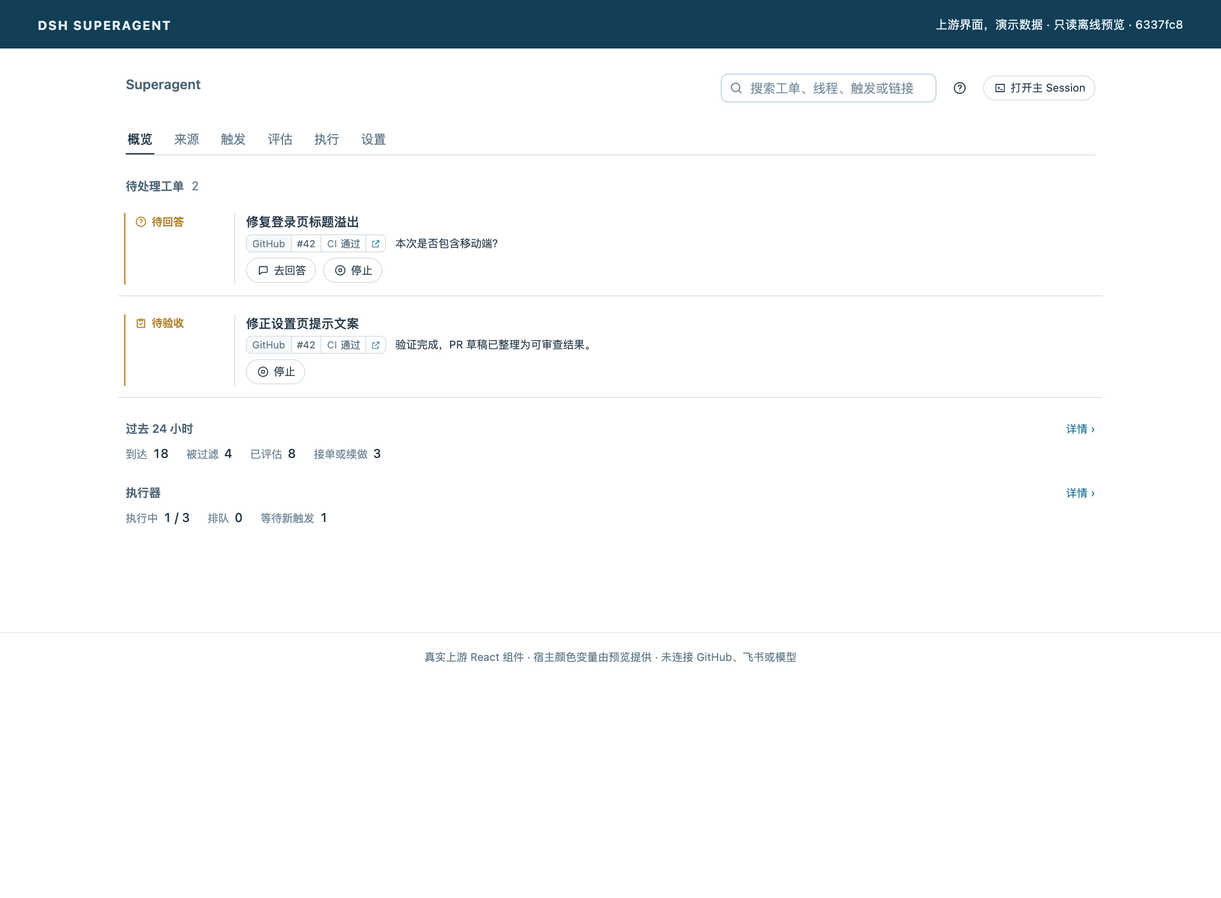
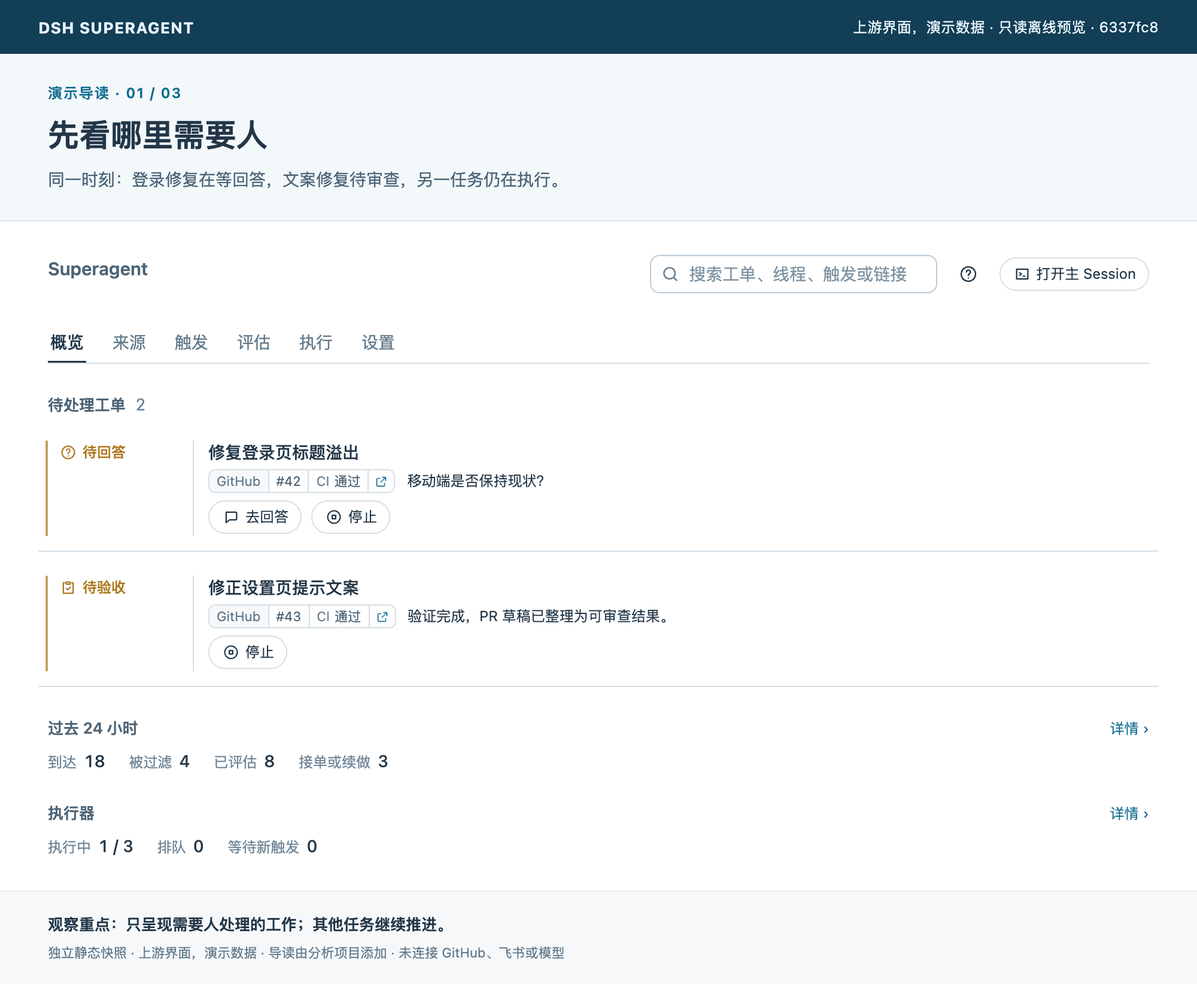
docs: show continuous task demos and horizontal architecture

diff --git a/tools/preview/data.ts b/tools/preview/data.ts
@@ -1,22 +1,26 @@
 // Synthetic examples shaped after the pinned upstream management API and panel fixtures.
 const at = '2026-10-31T12:00:00Z';
-const version = '6337fc823ce20251c';
+const version = 'demo-policy-v1';
+const questionAt = '2026-10-31T12:12:00Z';
+const followupAt = '2026-10-31T12:18:00Z';
+const request = '@dsh-demo-agent 请按现有桌面布局修复登录页标题溢出，不修改认证逻辑。';
+const answer = '移动端保持不变，请按原范围完成桌面端验证。';
 const actor = { source: 'github', id: 'demo-maintainer', name: { zh: '示例维护者', en: 'Demo maintainer' } };
 const link = 'https://example.test/github/issues/42';
 const thread = { key: 'github:42', source: 'github', title: '#42 登录页标题溢出', stage: 'subscribed', createdAt: at, lastAt: at,
-  subscriptions: 1, tickets: [{ id: 'demo-1', title: '修复登录页标题溢出', state: 'open' }], pending: 0, url: link,
+  latest: { actor, preview: request }, subscriptions: 1, tickets: [{ id: 'demo-1', title: '修复登录页标题溢出', state: 'open' }], pending: 0, url: link,
   facts: { number: { value: '#42' }, ci: { label: { zh: 'CI', en: 'CI' }, value: '通过' } } };
 const base = { id: 'demo-1', title: '修复登录页标题溢出', state: 'open', actions: { retry: false, stop: true },
-  stage: 'person', action: 'answer', strength: 'explicit', assignments: 1, inputs: 2, undelivered: 0,
-  sessionId: 'worker-demo-1', directory: '/srv/superagent/work/fix-login-title', summary: '桌面端修复已验证，等待确认移动端范围。',
-  attention: { id: 'attention-demo', question: '本次是否包含移动端？桌面端修复已完成，移动端需要单独确认范围。' },
-  note: { text: '本次是否包含移动端？', error: false }, reply: { url: link, label: { zh: 'GitHub', en: 'GitHub' } },
-  createdAt: at, updatedAt: at, threads: [thread] };
+  stage: 'person', action: 'answer', strength: 'explicit', assignments: 1, inputs: 1, undelivered: 0,
+  sessionId: 'worker-demo-1', directory: '/srv/superagent/work/fix-login-title', summary: '桌面端修复已完成，确认移动端是否保持现状后继续验证。',
+  attention: { id: 'attention-demo', question: '移动端是否保持现状？当前授权仅覆盖桌面端，本轮不会自行扩大修改范围。' },
+  note: { text: '移动端是否保持现状？', error: false }, reply: { url: link, label: { zh: 'GitHub', en: 'GitHub' } },
+  createdAt: at, updatedAt: questionAt, threads: [thread] };
 const review = { ...base, id: 'demo-2', title: '修正设置页提示文案', action: 'review', attention: undefined,
   note: { text: '验证完成，PR 草稿已整理为可审查结果。', error: false }, sessionId: 'worker-demo-2',
-  summary: '改动与测试结果已提交，等待人工审查。' };
+  summary: '改动与测试结果已提交，等待人工审查。', threads: [{ ...thread, key: 'github:43', title: '#43 修正设置页提示文案', url: 'https://example.test/github/issues/43', latest: { actor, preview: '请修正设置页提示文案，保持原意。' }, facts: { number: { value: '#43' }, ci: thread.facts.ci }, tickets: [{ id: 'demo-2', title: '修正设置页提示文案', state: 'open' }] }], reply: undefined, directory: '/srv/superagent/work/fix-settings-copy' };
 const working = { ...base, id: 'demo-3', title: '跟进 PR 的审查反馈', stage: 'working', action: undefined,
-  attention: undefined, note: undefined, sessionId: 'worker-demo-3' };
+  attention: undefined, note: undefined, sessionId: 'worker-demo-3', reply: undefined, directory: '/srv/superagent/work/review-feedback', threads: [{ ...thread, key: 'github:44', title: 'PR #44 跟进审查反馈', url: 'https://example.test/github/pull/44', latest: { actor, preview: '请按审查意见补齐验证。' }, facts: { number: { value: '#44' }, ci: thread.facts.ci }, tickets: [{ id: 'demo-3', title: '跟进 PR 的审查反馈', state: 'open' }] }] };
 const source = { id: 'github', kind: 'github', title: { zh: 'GitHub', en: 'GitHub' }, installed: true,
   description: { zh: '接收示例仓库中的请求与后续讨论', en: 'Demo repository events' }, labels: {}, revision: 1, restarts: [],
   value: { enabled: true, config: { repository: 'example/demo', cli: 'gh-agent', observeComments: true, observeIssues: true } },
@@ -39,7 +43,7 @@ export const responses: Record<string, unknown> = {
   state: { setup: { machine: { stateDir: '/srv/superagent', promptMaxChars: 100000, admissionContextMaxPages: 10,
       admissionContextTimeoutMs: 15000 }, problem: null, feishuProblem: null, accounts: { repository: 'example/demo', agent: 'dsh-demo-agent' } },
     load: { running: 1, queued: 0, maxWorkers: 3 }, masterId: 'demo-master', paused: false, health: {} },
-  overview: { problems: [], person: [base, review], executor: { running: 1, queued: 0, maxWorkers: 3, idle: 1 },
+  overview: { problems: [], person: [base, review], executor: { running: 1, queued: 0, maxWorkers: 3, idle: 0 },
     flow: { received: 18, filtered: 4, triggers: 14, judged: 8, accepted: 3, evaluating: 0, dropped: 0 }, policyVersion: version },
   settings: { policyVersion: version, blocks: { policy: { revision: 1, value: policy }, eval: { revision: 1, value: { mode: 'observe',
       timeoutSeconds: 120, model: null } }, executor: { revision: 1, value: executor } }, sources: [source],
@@ -48,16 +52,16 @@ export const responses: Record<string, unknown> = {
       { key: 'DSH_SUPERAGENT_NAME', description: { zh: '工单短名', en: 'Ticket short name' } }] }] } },
   'tickets/demo-1': { ...base, paused: false, threads: [thread],
     decision: { id: 'decision-demo', kind: 'accept', outcome: 'accept', reason: [{ code: 'explicitRouted' }], at,
-      strength: 'explicit', triggerIds: ['trigger-demo'], thread: 'github:42', rules: [], preview: '@agent 请修复标题溢出' },
+      strength: 'explicit', triggerIds: ['trigger-demo'], thread: 'github:42', rules: [], preview: request },
     mandate: { strength: 'explicit', policyVersion: version, basis: { via: 'addressed', sender: actor.id, addressed: 'mention' },
       actor, scope: '按现有桌面布局修复登录页标题溢出，不修改认证逻辑。' },
     basis: { facts: [{ name: 'sender', value: actor.id }, { name: 'addressed', value: 'mention' }], legacy: false },
     environment: [{ key: 'DSH_SUPERAGENT_DIR', value: base.directory, description: { zh: '执行目录', en: 'Directory' }, owner: 'executor' }],
     channels: [{ source: 'github', url: link, label: { zh: 'GitHub #42', en: 'GitHub #42' } }],
-    assignments: [{ id: 'assignment-demo', state: 'running', createdAt: at, startedAt: at,
-      report: { state: 'progress', summary: '演示：桌面端修复与测试已完成，等待范围确认。', at } }],
+    assignments: [{ id: 'assignment-demo', state: 'running', createdAt: at, startedAt: at, ref: base.sessionId, turnEndedAt: questionAt,
+      report: { state: 'waiting', summary: '演示：等待确认移动端保持现状。', at: questionAt } }],
     inputs: [{ id: 'input-demo', kind: 'trigger', triggerId: 'trigger-demo', at, delivered: true,
-      trigger: { id: 'trigger-demo', actor, human: true, preview: '@agent 请修复标题溢出', thread: 'github:42' } }] },
+      trigger: { id: 'trigger-demo', actor, human: true, preview: request, thread: 'github:42' } }] },
   tickets: { items: [base, review, working], total: 3, next_offset: null },
   sources: [{ id: 'github', title: source.title, installed: true, enabled: true, state: 'ready', health: [{ name: 'github', state: 'ready',
     detail: '' }], stats: { received: 18, filtered: 4, lastAt: at }, filtered: [], dropped: [] }],
@@ -65,3 +69,24 @@ export const responses: Record<string, unknown> = {
   threads: { items: [thread], total: 1, next_offset: null }, decisions: { items: [], total: 0, next_offset: null },
   search: { tickets: [], threads: [], items: [] },
 };
+
+// Independent static snapshots: selecting a view never runs an Agent or mutates a ticket.
+export function responsesFor(view: string): Record<string, any> {
+  if (view !== 'followup') return responses;
+  const before = responses['tickets/demo-1'] as any;
+  const continuedThread = { ...thread, lastAt: followupAt, latest: { actor, preview: answer } };
+  const continued = { ...before, stage: 'working', action: undefined, attention: undefined, note: undefined,
+    inputs: [
+      { id: 'input-followup', kind: 'trigger', triggerId: 'trigger-followup', at: followupAt, delivered: true,
+        trigger: { id: 'trigger-followup', actor, human: true, preview: answer, thread: thread.key } },
+      ...before.inputs,
+    ], updatedAt: followupAt, summary: '演示：收到回答，在原范围内继续桌面端验证。', threads: [continuedThread],
+    assignments: before.assignments.map(item => ({ ...item, turnEndedAt: undefined,
+      report: { state: 'progress', summary: '演示：原会话继续验证桌面端修复。', at: followupAt } })),
+  };
+  return { ...responses, 'tickets/demo-1': continued,
+    overview: { ...(responses.overview as any), person: [review], executor: { running: 2, queued: 0, maxWorkers: 3, idle: 0 } },
+    state: { ...(responses.state as any), load: { running: 2, queued: 0, maxWorkers: 3 } },
+    tickets: { items: [{ ...continued, inputs: continued.inputs.length, assignments: continued.assignments.length }, review, working], total: 3, next_offset: null },
+    threads: { items: [continuedThread], total: 1, next_offset: null } };
+}

diff --git a/tools/preview/entry.tsx b/tools/preview/entry.tsx
@@ -2,10 +2,22 @@ import React from 'react';
 import { createRoot } from 'react-dom/client';
 import { App } from '@upstream/client/app.tsx';
 import { zh } from '@upstream/client/locales.ts';
-import { responses } from './data';
+import { responsesFor } from './data';
 const views = { overview: { page: 'overview' }, ticket: { page: 'execution', id: 'demo-1' },
+  followup: { page: 'execution', id: 'demo-1' },
   policy: { page: 'settings', query: { group: 'eval' } }, execution: { page: 'settings', query: { group: 'execution' } } };
 const view = new URLSearchParams(location.search).get('view') || 'overview';
+const responses = responsesFor(view);
+const scenes = {
+  overview: ['01 / 03', '先看哪里需要人', '同一时刻：登录修复在等回答，文案修复待审查，另一任务仍在执行。', '观察重点：只呈现需要人处理的工作；其他任务继续推进。'],
+  ticket: ['02 / 03', '看清授权，再回答问题', 'Issue #42 → Ticket demo-1 · worker-demo-1 · 当前只授权修复桌面端。', '观察重点：问题与授权范围同时可见；在原 GitHub 讨论中回答。'],
+  followup: ['03 / 03', '收到回答，在原任务继续', '同一 Ticket demo-1 · 同一 Session worker-demo-1 · 回答不扩大原授权范围。', '观察重点：展开已送达输入与标识，核对新回答、原请求和同一工作目录。'],
+  policy: ['设置参考', '接收哪些请求，何时主动接单', '允许名单、接收规则与 observe 模式分别控制不同环节。', '边界：observe 不阻止允许用户的显式请求执行。'],
+  execution: ['设置参考', '为任务准备目录与执行资源', '配置普通并发、工作目录和 prepare 命令。', '边界：目录与命令包装不等于 OS 沙箱；本演示未创建 worktree。'],
+};
+const scene = scenes[view] || scenes.overview;
+createRoot(document.getElementById('story')!).render(<><div className="preview-kicker">演示导读 · {scene[0]}</div><h1>{scene[1]}</h1><p>{scene[2]}</p></>);
+document.getElementById('scene-note')!.textContent = scene[3];
 sessionStorage.clear();
 sessionStorage.setItem('dsh-superagent/route', JSON.stringify({ route: views[view] || views.overview, stack: [] }));
 window.__previewRequests = [];

diff --git a/tools/preview/host.css b/tools/preview/host.css
@@ -8,4 +8,6 @@
   font-family:-apple-system,BlinkMacSystemFont,"PingFang SC","Microsoft YaHei",sans-serif;font-size:14px;background:#fff;color:#223647;
 }
 *{box-sizing:border-box}body{margin:0}button,input,textarea,select{font:inherit}.preview-label{display:flex;align-items:center;justify-content:space-between;gap:24px;padding:18px 42px;background:#123e56;color:#e8f3fa;font-size:13px;letter-spacing:.02em}.preview-label strong{font-size:14px;letter-spacing:.1em}.preview-foot{padding:18px 42px;border-top:1px solid #e7edf2;font-size:12px;color:#61798a;text-align:center}
-#app .dt-page{height:auto;overflow:visible;min-height:650px}#app .dt-page>.dt-column{max-width:1080px;padding-bottom:36px}
+#app .dt-page{height:auto;overflow:visible;min-height:0}#app .dt-page>.dt-column{max-width:920px;padding-bottom:36px}
+
+.preview-frame{width:100%;background:#fff}.preview-label{padding:14px 32px;font-size:12px}.preview-label strong{font-size:13px;letter-spacing:.05em}.preview-story{padding:24px 40px 22px;background:#f3f8fb;border-bottom:1px solid #dce7ee}.preview-kicker{color:#146d91;font-size:12px;font-weight:650;letter-spacing:.08em}.preview-story h1{margin:8px 0;font-size:26px;line-height:1.4;letter-spacing:.01em}.preview-story p{margin:0;font-size:14px;line-height:1.7;color:#4c6476}.preview-foot{padding:16px 40px;text-align:left;line-height:1.8;background:#f6f8fa}.preview-foot strong{display:block;color:#223647;font-size:13px}.preview-foot span{font-size:11px}#app .dt-page>.dt-column{padding-bottom:28px}

diff --git a/tools/check.py b/tools/check.py
@@ -27,6 +27,7 @@ def main():
             if label not in defined:
                 errors.append(f'{path.relative_to(ROOT)}: undefined link reference {label}')
         targets = re.findall(r'\[[^\]]*\]\(([^\s)]+)(?:\s+"[^"]*")?\)', text) + [target for name, target in definitions]
+        targets += re.findall(r'(?:href|src)="([^"]+)"', text)
         for target in targets:
             target = target.strip('<>')
             parsed = urlsplit(target)
@@ -59,7 +60,7 @@ def main():
             ET.parse(svg)
         except ET.ParseError as error:
             errors.append(f'Invalid SVG {svg.name}: {error}')
-    names = {'overview', 'ticket', 'policy', 'execution'}
+    names = {'overview', 'ticket', 'followup', 'policy', 'execution'}
     for name in names:
         path = ROOT / 'assets/screenshots' / (name + '.png')
         if not path.exists():
@@ -78,10 +79,13 @@ def main():
         if result['upstream'] != SHA or result['dataset'] != 'synthetic' or result['pageErrors'] or result['externalRequests']:
             errors.append('Capture report has wrong source, non-synthetic data, errors, or external requests')
         if {item['view'] for item in result['checks']} != names or any(item['readOnlyStatus'] != 405 for item in result['checks']):
-            errors.append('Capture report does not prove all four read-only views')
+            errors.append('Capture report does not prove all five read-only views')
+        continuity = result.get('continuity', {})
+        if any(continuity.get(key) is not True for key in ('sameDirectory', 'sameAssignment', 'unchangedMandate')) or continuity.get('ticketId') != 'demo-1' or continuity.get('sessionId') != 'worker-demo-1' or continuity.get('inputsBefore') != 1 or continuity.get('inputsAfter') != 2:
+            errors.append('Capture report lacks consistent follow-up snapshot evidence')
     if errors:
         raise SystemExit('\n'.join(errors))
-    print(f'PASS: {len(documents)} Markdown files, {links} local links, {len(citations)} unique pinned source citations, 5 rendered diagrams, 4 read-only screenshot views.')
+    print(f'PASS: {len(documents)} Markdown files, {links} local links, {len(citations)} unique pinned source citations, 5 rendered diagrams, 5 read-only screenshot views.')
     if not args.source:
         print('Source citation line ranges not checked; pass --source /path/to/upstream to include them.')
 

diff --git a/README.md b/README.md
@@ -55,38 +55,33 @@ Source 将平台消息转成 Trigger，Engine 组织授权和工单状态，主 
 | **恢复与重试** | 保存输入、派工与投递记录，支持明确范围内的重试和恢复 |
 | **配置与留痕** | 配置来源、策略、执行和提示词，并保留配置历史 |
 
-### 功能演示
+### 功能演示：一个任务如何持续推进
 
-以下图片来自**真实上游 React 组件的离线渲染**，工单、统计与配置均为演示数据，未连接真实 GitHub、飞书或模型。点击图片可查看原图。
+**同一个示例：修复 Issue #42 的登录页标题溢出。** 从需要人回答，到收到回答继续验证，始终跟踪 `Ticket demo-1`。
 
-<table>
-  <tr>
-    <td width="50%" valign="top">
-      <strong>概览</strong><br>
-      <sub>优先呈现需要人处理的工单与执行状态。</sub><br><br>
-      <a href="assets/screenshots/overview.png"><img src="assets/screenshots/overview.png" width="480" alt="概览：待处理工单和执行状态，上游界面、演示数据"></a>
-    </td>
-    <td width="50%" valign="top">
-      <strong>工单详情</strong><br>
-      <sub>查看授权依据、任务范围和讨论订阅。</sub><br><br>
-      <a href="assets/screenshots/ticket.png"><img src="assets/screenshots/ticket.png" width="480" alt="工单详情：授权依据和讨论订阅，上游界面、演示数据"></a>
-    </td>
-  </tr>
-  <tr>
-    <td width="50%" valign="top">
-      <strong>评估与授权</strong><br>
-      <sub>理解允许名单、规则和 observe 模式。</sub><br><br>
-      <a href="assets/screenshots/policy.png"><img src="assets/screenshots/policy.png" width="480" alt="评估策略：允许名单、规则与接单模式，上游界面、演示数据"></a>
-    </td>
-    <td width="50%" valign="top">
-      <strong>执行环境</strong><br>
-      <sub>定位模型、并发、目录与准备命令。</sub><br><br>
-      <a href="assets/screenshots/execution.png"><img src="assets/screenshots/execution.png" width="480" alt="执行配置：模型、并发和工作目录，上游界面、演示数据"></a>
-    </td>
-  </tr>
-</table>
+> 图片为固定版本**真实上游 React 组件＋演示数据**，导读条由本分析项目添加。三个场景是独立静态快照，用于解释机制，未运行真实 Agent，也未连接 GitHub、飞书或模型。点击图片可放大。
 
-[深入阅读：功能条件、反馈路径与状态边界 →](docs/03-capabilities.md) · [离线预览与图片复现](tools/preview/README.md)
+#### ① 任务总览：先看哪里需要人
+
+[![任务总览：登录修复待回答、另一任务待审查，后台工作继续执行；上游界面，演示数据](assets/screenshots/overview.png)](assets/screenshots/overview.png)
+
+**看图：** 登录修复需要回答，文案修复需要审查；概览同时保留执行负载。**机制：** 把需要人处理的工作集中呈现。**可借鉴：** 将“需要你做什么”放在入口，执行细节按需打开。
+
+#### ② 授权与提问：看清范围，再介入
+
+[![同一工单的授权依据与范围确认问题：仅修复桌面布局，不修改认证逻辑；上游界面，演示数据](assets/screenshots/ticket.png)](assets/screenshots/ticket.png)
+
+**看图：** 谁提出请求、授权修什么、在哪条讨论回答。**机制：** Mandate 确定范围，Attention 记录需要人的问题。**可借鉴：** 同时保留请求来源、任务范围和待回答事项，避免新信息悄悄扩大授权。
+
+#### ③ 回答后续做：新输入回到原任务
+
+[![收到人的回答后，同一 Ticket 继续执行；展开输入记录和标识核对原请求、后续回答及工作目录；上游界面，演示数据](assets/screenshots/followup.png)](assets/screenshots/followup.png)
+
+**看图：** 状态从待回答变为执行中，原请求和新回答均已送达，Ticket 与工作目录保持一致。**机制：** 订阅把反馈送回原 Ticket，继续原 Worker 会话；本例续用当前派工。**可借鉴：** 分开建模业务任务、输入和执行尝试，收到反馈时先判断归属与授权。
+
+本例只是**开放工单收到人的回答后继续执行**，不代表任务已经验收；已结束工单的恢复和人工停止另有规则。
+
+[深入阅读：功能条件、反馈路径与状态边界 →](docs/03-capabilities.md) · [设置界面与上手](docs/05-getting-started.md#设置界面参考) · [离线预览与图片复现](tools/preview/README.md)
 
 ## 设计取舍与借鉴
 
@@ -125,7 +120,7 @@ Source 将平台消息转成 Trigger，Engine 组织授权和工单状态，主 
 | --- | --- |
 | 上游提交 | [`6337fc8`](https://github.com/deepseek-ai/dsh-superagent-prototype/commit/6337fc823ce20251c8de8085948165c81aaa701e) |
 | 核对日期 | 2026-11-01，Asia/Shanghai |
-| 图像资料 | 5 张机制图、4 张真实组件的演示数据截图 |
+| 图像资料 | 5 张机制图、5 张真实组件的演示数据截图（3 个任务场景＋2 个设置参考） |
 | 依据与范围 | [资料来源](docs/reference/sources.md) · [源码索引](docs/reference/source-map.md) · [验证记录](docs/reference/verification.md) |
 
 ## 贡献与许可

diff --git a/docs/reference/verification.md b/docs/reference/verification.md
@@ -11,10 +11,10 @@
 | 版本一致性 | 读取固定提交源码；远端最新提交查询与该基线一致；预览构建核对上游 src 未偏离此提交 |
 | 行为与源码 | 阅读 Engine、Intake、Tickets、Policy、Executor、Store、Effects、Outbox 及配套文档，核对接入、授权、派工、反馈、结束与恢复 |
 | 文档结构 | `python3 tools/check.py --source /path/to/upstream` 检查本地链接、引用定义、固定源码文件及行号、图像与截图报告 |
-| 机制图 | Mermaid CLI 12 解析五张源图，生成 SVG 和 PNG；检查中文、布局、箭头语义与源码一致性 |
-| 功能图 | 实际上游 App、CSS、中文文案与静态 API 数据构建，浏览器打开四个页面并截图 |
-| 演示边界 | 四个页面无浏览器脚本异常；没有外部请求；每页验证非 GET 写入返回 405；图片保留演示标识 |
-| 独立复核 | 一位独立审阅者核对机制、源码、图像和交付范围，未发现阻塞问题；按其建议补齐 dropped 的生命周期路径 |
+| 机制图 | Mermaid CLI 12 生成四张流程图；横向架构图由可编辑 SVG 导出 PNG，保留 Mermaid 关系参考；检查中文、布局、箭头语义与源码一致性 |
+| 功能图 | 实际上游 App、CSS、中文文案与静态 API 数据构建，浏览器打开五个场景，按内容边界截图，待回答图聚焦到授权详情；续做场景展开真实组件的输入与标识控件 |
+| 演示边界 | 五个场景无浏览器脚本异常；没有外部请求；每页验证非 GET 写入返回 405；图片保留演示标识；核对续做前后 Ticket、Session、目录、当前派工与 Mandate 一致，输入由一条变两条 |
+| 独立复核 | 初版由一位独立审阅者核对机制、源码、图像和交付范围；补齐 dropped 生命周期路径。本次独立复核已人工核对最终五张图、续做语义、横向架构图和复现脚本，未发现阻塞问题；另收紧当前派工一致性检查。浏览器检查由本轮制作流程执行，独立复核未重跑浏览器 |
 | 文本格式 | `git diff --check` 检查提交中的空白错误 |
 
 浏览器检查结果保存在 [capture-report.json](../../assets/screenshots/capture-report.json)。结构检查为仓库维护工具，不是原型运行成功的证明。
@@ -24,10 +24,10 @@
 - Node.js 24.22.1。
 - React / React DOM 18.3.1，与固定上游的 React 主版本一致。
 - esbuild 0.25.12；Playwright 1.62.1；Mermaid CLI 12.0.0。
-- 本地 Chromium，1360 × 1000 CSS 像素视窗，截图设备比例 1.5。
+- 本地 Chromium，功能截图为 1000 × 720 CSS 像素视窗、设备比例 2、按内容高度截取；时区为 Asia/Shanghai，截图时钟固定为演示事件之后的 2026-10-31 20:20。横向架构图画布为 3000 × 1580、设备比例 1.5。
 - 复用本机已有依赖完成制作；根目录 package.json 记录同版本的可安装开发依赖。
 
-图像只包含虚构工单、配置、身份和统计。宿主颜色变量由预览提供；未运行完整的 DSH Web 宿主，因此这些是组件截图，不应称为原系统已部署截图。图像的生成环境差异不改变它们所使用的固定上游组件版本。
+图像只包含虚构工单、配置、身份和统计。宿主颜色变量、图片头尾的场景导读由预览提供，组件本身未修改；未运行完整的 DSH Web 宿主，因此这些是组件截图，不应称为原系统已部署截图。图像的生成环境差异不改变它们所使用的固定上游组件版本。
 
 ## 仍需真实环境验证的部分
 
@@ -35,4 +35,4 @@
 
 所以：本文的源码分析支持实现机制与条件的解释；浏览器验收支持离线界面可展示和演示只读；完整外部链路、模型表现、部署兼容性与人的注意力收益需要另行联调或实验。上手章节中的部署步骤来自固定版本上游说明，不标作本次已经复现成功。
 
-若更新上游基线或截图数据，应重新检查源码引用、机制图和全部四个页面，并同步本记录。
+若更新上游基线或截图数据，应重新检查源码引用、机制图和全部五个场景，并同步本记录。

diff --git a/tools/preview/README.md b/tools/preview/README.md
@@ -1,8 +1,8 @@
 # 离线界面预览与图片复现
 
-[返回首页](../../README.md) · [查看四张图](../../assets/screenshots/capture-report.json)
+[返回首页](../../README.md) · [查看截图检查报告](../../assets/screenshots/capture-report.json)
 
-这里加载固定提交的真实上游 React App、CSS 和中文文案，配合静态管理 API 数据生成截图。宿主颜色变量和顶部演示标识由本预览提供，因此它是**真实组件的离线演示**，不是完整 DSH 宿主截图或真实账号联调。
+这里加载固定提交的真实上游 React App、CSS 和中文文案，配合静态管理 API 数据生成截图。宿主颜色变量、演示标识和场景导读由本预览提供，因此它是**真实组件的离线演示**，不是完整 DSH 宿主截图或真实账号联调。
 
 ## 准备与运行
 
@@ -23,21 +23,24 @@ node tools/preview/serve.mjs
 构建会检查上游 `src` 是否与固定提交一致；本分析不会改动上游源文件。服务仅监听 `127.0.0.1:4178`，可打开：
 
 - [概览](http://127.0.0.1:4178/?view=overview)
-- [工单详情](http://127.0.0.1:4178/?view=ticket)
+- [工单详情：待回答](http://127.0.0.1:4178/?view=ticket)
+- [同一工单：回答后续做](http://127.0.0.1:4178/?view=followup)
 - [评估策略](http://127.0.0.1:4178/?view=policy)
 - [执行配置](http://127.0.0.1:4178/?view=execution)
 
-生成四张 PNG 和检查报告：
+生成五张 PNG 和检查报告：
 
 ```sh
 node tools/preview/capture.mjs
 ```
 
-脚本自行启动临时端口，检查页面异常、外部请求和只读写入拒绝，并退出服务。已有本机 Chromium 时，可用 `CHROME_PATH` 指向其可执行文件。
+脚本自行启动临时端口，按内容边界截图以去掉页面留白，待回答图裁到授权详情底部以突出问题和范围；在续做场景中通过原生折叠控件展开输入与标识。它检查五个页面的异常、外部请求和只读写入拒绝，并核对两个任务快照沿用相同 Ticket、Session、目录、派工和 Mandate，之后退出服务。截图固定使用 Asia/Shanghai 时区。已有本机 Chromium 时，可用 `CHROME_PATH` 指向其可执行文件。
 
 ## 演示范围
 
 工单、允许名单、统计、目录、模型名和配置均为虚构示例。外部链接使用 `example.test`，外跳会被拦截。fetch 只接受本源的预设管理 API；所有非 GET 调用返回 405，保存、停止、重试和同步不会修改任何真实系统。未提供数据的其他页面可能提示无演示数据。
+
+三个任务场景是独立静态快照：概览与工单详情对应待回答阶段，followup 对应人的回答送达后。它们不是可提交回答、驱动状态流转的交互模拟器；其他工单使用不同讨论，避免身份混淆。
 
 本预览用于理解界面和机制，不运行 Engine、不调用模型、不验证 GitHub 或飞书 API。应在隔离环境中按[原型上手指南](../../docs/05-getting-started.md)另外进行真实联调。
 
@@ -49,4 +52,4 @@ node tools/preview/capture.mjs
 node tools/render-diagrams.mjs
 ```
 
-它将 `assets/diagrams/*.mmd` 导出为同名 SVG 与 PNG。可用 `MMDC` 指定已有的 mmdc 可执行文件，用 `CHROME_PATH` 指定浏览器。颜色、字号与字体定义在 `assets/diagrams/mermaid.config.json`。
+它把四张流程图的 Mermaid 源文件导出为 SVG 与 PNG。横向架构图以可编辑的 `assets/diagrams/architecture.svg` 为排版源，直接导出 PNG；`architecture.mmd` 仅记录关系，不用于覆盖横向布局。可用 `MMDC` 指定已有的 mmdc 可执行文件，用 `CHROME_PATH` 指定浏览器。颜色、字号与字体定义在 `assets/diagrams/mermaid.config.json`。

diff --git a/docs/03-capabilities.md b/docs/03-capabilities.md
@@ -36,9 +36,7 @@ GitHub 来源先接收发给 Agent 账号的通知和已订阅讨论。按配置
 
 语义接受也不是随意猜测。当前策略验证规则覆盖情况、实施意图、目标是否明确、是否尚需设计决定等信息。默认规则较窄，集中在明确的文案与局部视觉修复；“有主动 Agent 架构”不代表默认自动开展任意类型工作。[策略实现][policy]
 
-![评估策略界面：上游组件，演示数据](../assets/screenshots/policy.png)
-
-*演示配置展示 observe、允许名单与规则的位置；这是只读预览，不会更改真实策略。*
+[评估策略界面](05-getting-started.md#设置界面参考)放在上手章节，便于对照允许名单、规则与 observe 的配置位置。
 
 ## 同一个任务如何不断线
 
@@ -50,7 +48,26 @@ Thread 是讨论，Ticket 是工作。订阅把某条讨论中的后续事件持
 
 ![工单详情界面：上游组件，演示数据](../assets/screenshots/ticket.png)
 
-*来源、授权依据、订阅和派工属于同一工作记录；演示数据没有对应的真实 Issue 或 PR。*
+*图中为 Issue #42 对应的 Ticket demo-1：当前只授权修复桌面布局，Worker 提问确认移动端是否保持现状。演示数据没有对应的真实 Issue 或 PR。*
+
+### 从待回答到继续执行
+
+维护者在原讨论回答：“移动端保持不变，请按原范围完成桌面端验证。”同一 Ticket 的后续快照如下：
+
+[![同一工单收到回答后继续执行：输入记录与工单标识已展开；上游组件，演示数据](../assets/screenshots/followup.png)](../assets/screenshots/followup.png)
+
+| 核对项 | 待回答时 | 回答后 |
+| --- | --- | --- |
+| 业务任务 | Ticket `demo-1` | 同一 Ticket `demo-1` |
+| 执行会话与目录 | `worker-demo-1`，`fix-login-title` 目录 | 保持一致 |
+| 输入 | 原请求，已送达 | 原请求＋人的回答，均已送达 |
+| 授权范围 | 桌面布局，不改认证逻辑 | 保持一致；回答未授权扩展到移动端 |
+| 当前阶段 | 待回答 | 执行中；问题已清除 |
+
+本例属于开放工单的人工回答续做，沿用当前 Assignment；不会为了每条反馈创建新工单或新派工。重试等路径可能产生新的 Assignment，应与任务身份分开理解。[接入与归属][intake]、[恢复与失败处理][recovery]
+
+上图通过原界面的折叠控件展开“已送达的输入”和“标识”。两个阶段是为讲解机制准备的独立静态快照，不是点击回答后真的驱动了 Engine；浏览器检查仅验证演示数据及界面的一致性。
+
 
 ## 执行和后台工作
 
@@ -58,9 +75,7 @@ Thread 是讨论，Ticket 是工作。订阅把某条讨论中的后续事件持
 
 默认普通并发为三个 Worker。等待人回答或交付审查时会释放槽位；后台任务仍在运行时，通常保留该任务的槽位。人的后续消息有优先继续工作的机会。应按模型与机器资源调节并发，而不把并发数当成已完成的任务数。
 
-![执行配置界面：上游组件，演示数据](../assets/screenshots/execution.png)
-
-*图中目录和 prepare 命令为演示配置，只展示配置接口，没有创建真实 worktree。*
+目录、并发和 prepare 的[设置界面参考](05-getting-started.md#设置界面参考)放在上手章节。
 
 ## ready、等待、结束是不同事情
 

diff --git a/docs/05-getting-started.md b/docs/05-getting-started.md
@@ -74,6 +74,28 @@ prepare 可使用 `DSH_SUPERAGENT_DIR`、`DSH_SUPERAGENT_NAME`、`DSH_SUPERAGENT
 
 成功标准应包括：身份正确、授权范围正确、目录正确、修改有验证证据、回复到正确讨论。如果产生 PR，继续检查反馈是否回到原工单；PR 已创建不等于工单已验收。
 
+## 设置界面参考
+
+以下两张图使用真实上游组件与虚构配置，只展示设置位置，未连接真实平台或模型，也未创建 worktree。目录和命令应按自己的部署环境配置。
+
+<details>
+<summary><strong>评估策略：允许名单、接收规则与 observe 模式</strong></summary>
+
+[![评估策略设置：上游界面，演示数据](../assets/screenshots/policy.png)](../assets/screenshots/policy.png)
+
+`observe` 限制推断候选接单；允许用户的显式请求仍可能执行。
+
+</details>
+
+<details>
+<summary><strong>执行配置：普通并发、工作目录与 prepare</strong></summary>
+
+[![执行配置：上游界面，演示数据](../assets/screenshots/execution.png)](../assets/screenshots/execution.png)
+
+独立目录、prepare 和命令包装各有作用，不能当作 OS 沙箱。
+
+</details>
+
 ## 可选：接入飞书
 
 完成 GitHub 路径后，再按上游部署文档创建和发布 bot、配置 `lark-cli`，启用飞书 Source，选择接收群和允许用户范围。凭据只在本机或部署平台配置，不放进 Issue、聊天记录或截图。无需为了理解架构而先安装飞书。[原始部署指南][install]
